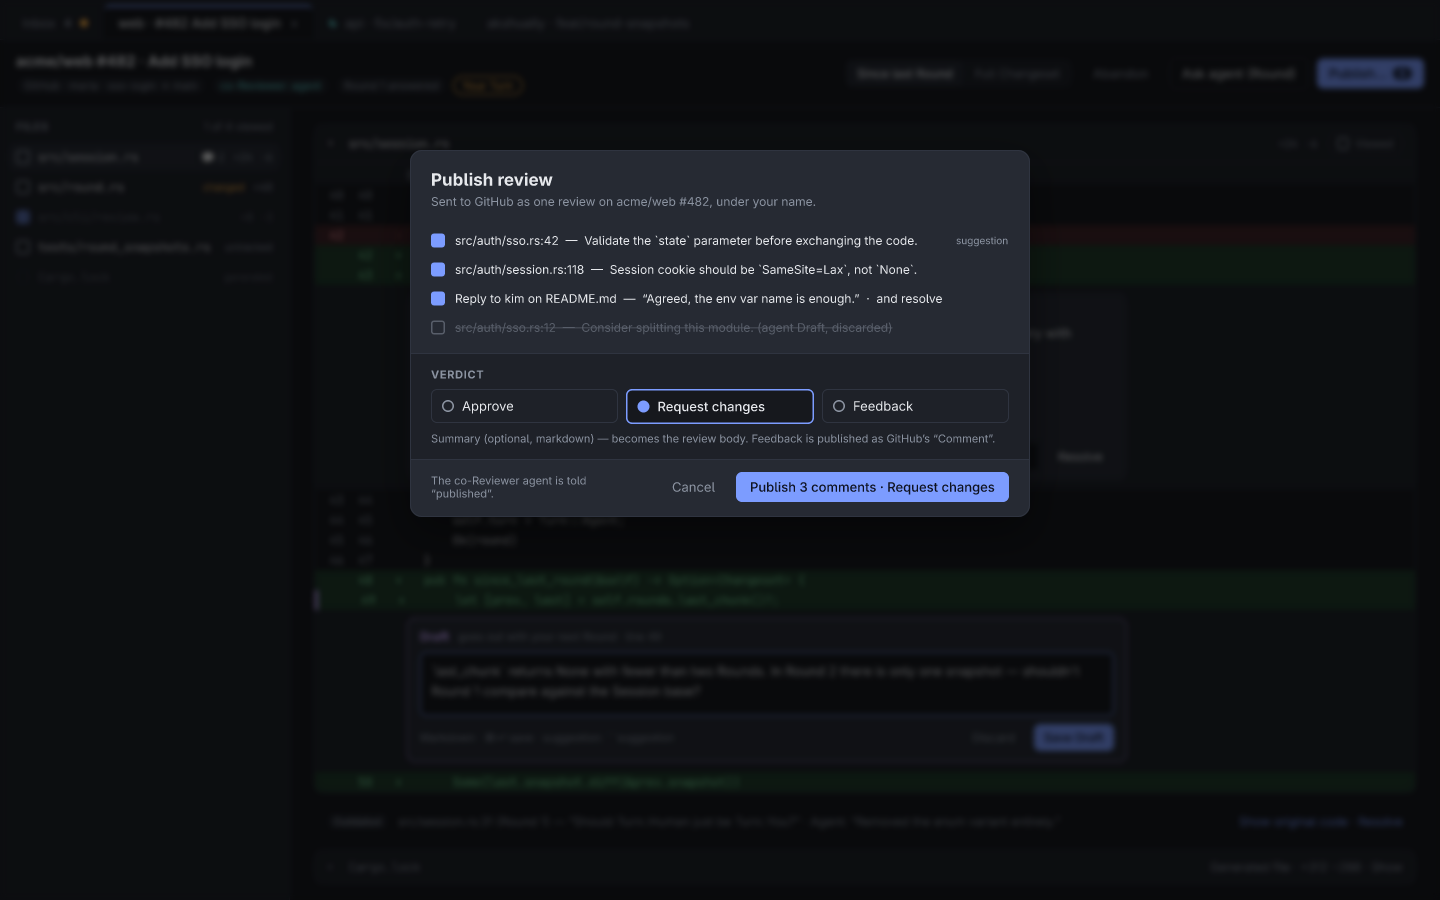
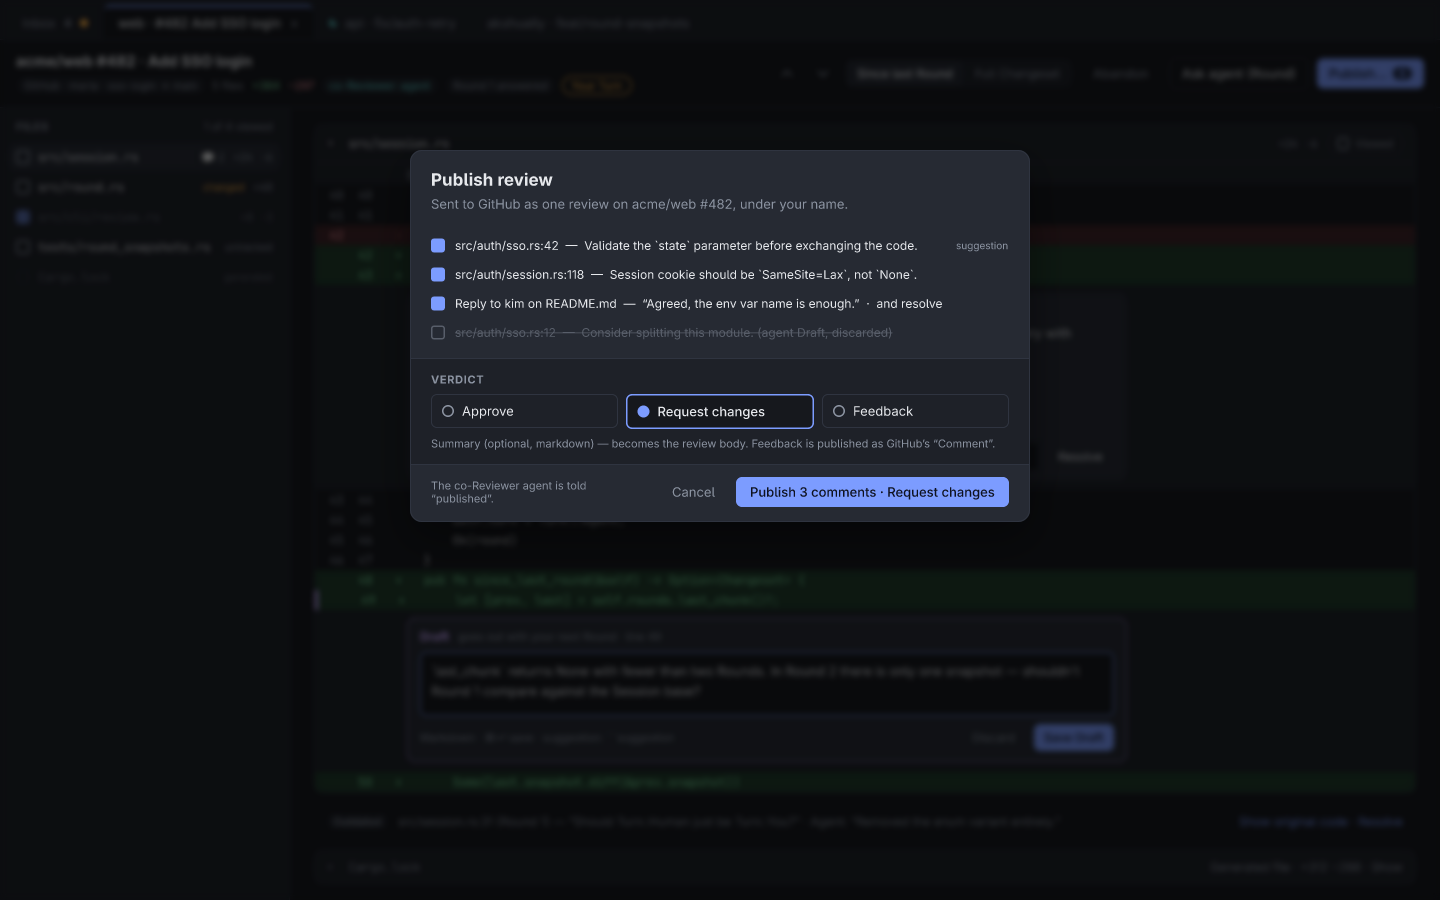
Update the design reference for totals, Thread navigation, search, General Threads, scroll bar and Approve question (#95 #96 #97 #98 #102 #103 #104)

Changed region(s): [[0.2812, 0.2178, 0.6562, 0.3733], [0.2812, 0.4044, 0.7188, 0.5911], [0.6562, 0.2489, 0.6875, 0.28]]

diff --git a/design/README.md b/design/README.md
@@ -1,14 +1,14 @@
 # Design
 
-`akshually.figcraft` is the visual reference for akshually's screens and interaction states. Issues point here. Open it in FigCraft. `png/` holds exports for viewing on GitHub; re-export them when the file changes.
+`akshually.figcraft` is the visual reference for Akshually's screens and interaction states. Issues point here. Open it in FigCraft. `png/` holds exports for viewing on GitHub; re-export them when the file changes.
 
 | Page | Frame | Shows |
 | --- | --- | --- |
-| Screens | 1 · Session — your Turn (Round 2) | Tabs with attention markers, Session header, since-last-Round toggle, viewed ticks, an inline Thread, a Draft being written, an Outdated Thread, a collapsed generated file |
-| Screens | 2 · Session — agent's Turn (Light theme) | Waiting banner, drafting during the agent's Turn, Take Turn back |
+| Screens | 1 · Session — your Turn (Round 2) | Tabs with attention markers, Session header (changeset totals, Thread navigation buttons), since-last-Round toggle, viewed ticks, an inline Thread, a Draft being written, an Outdated Thread, a collapsed generated file, the scroll bar over the diff |
+| Screens | 2 · Session — agent's Turn (Light theme) | Waiting banner, drafting during the agent's Turn, Take Turn back, header totals and Thread navigation buttons, scroll bar |
 | Screens | 3 · Inbox | Pull Requests across Forges, new / updated / Session-open states, open by URL |
-| Screens | 4 · Publish dialog | Kept and discarded Drafts, reply on an existing Thread, Verdict choice |
-| States & interactions | States | Tab states, reload banners, agent Draft with a suggestion, Resolved Thread, interaction rules |
+| Screens | 4 · Publish dialog | The "Sent to …" line as wrapped muted text under the title, kept and discarded Drafts, reply on an existing Thread, Verdict choice |
+| States & interactions | States | Tab states, reload banners, agent Draft with a suggestion, Resolved Thread, search field (with a count, no match, in a Rendered view's header), General Threads header row (expanded, collapsed), the Approve confirm question, interaction rules |
 
 ## Design tokens
 
